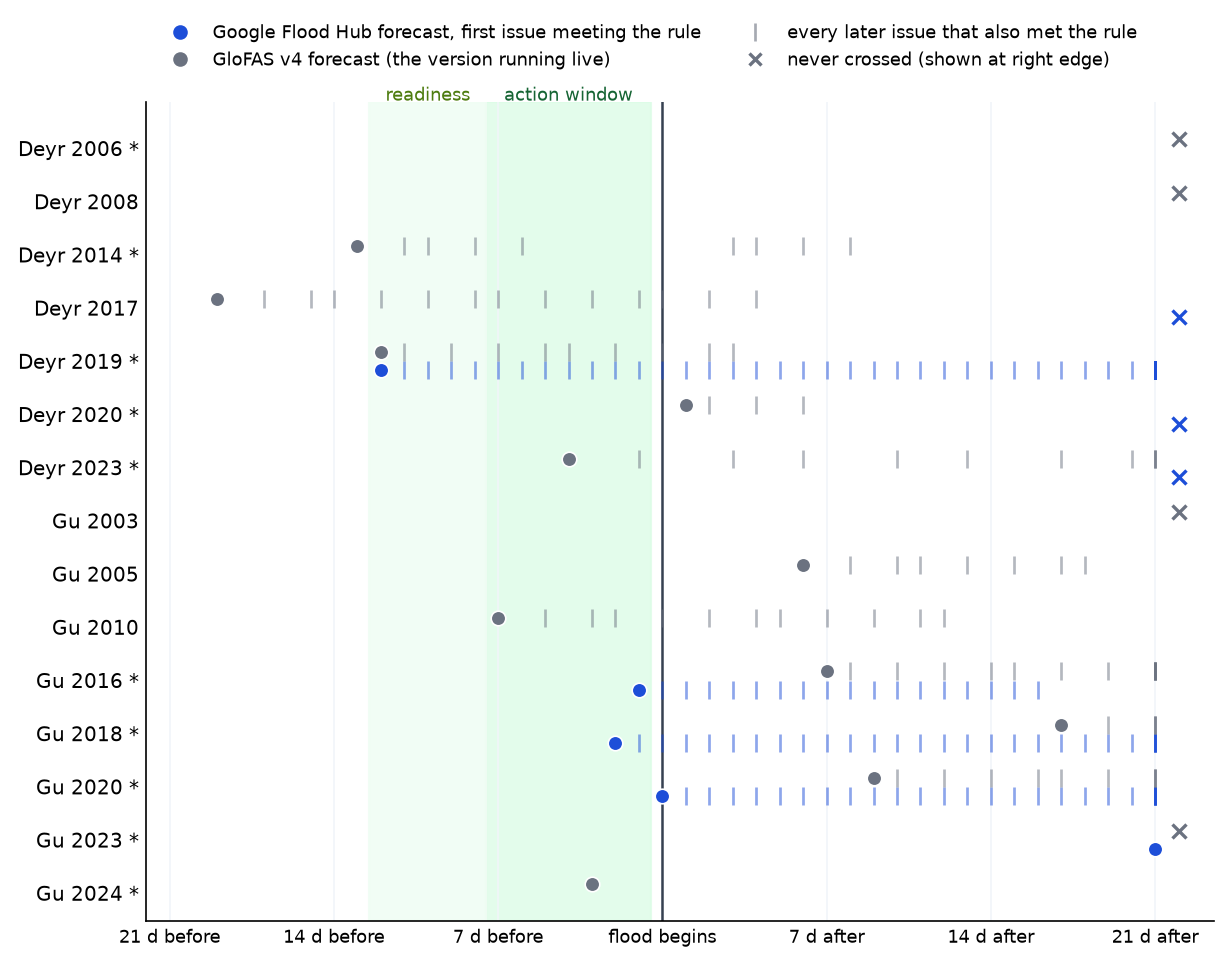
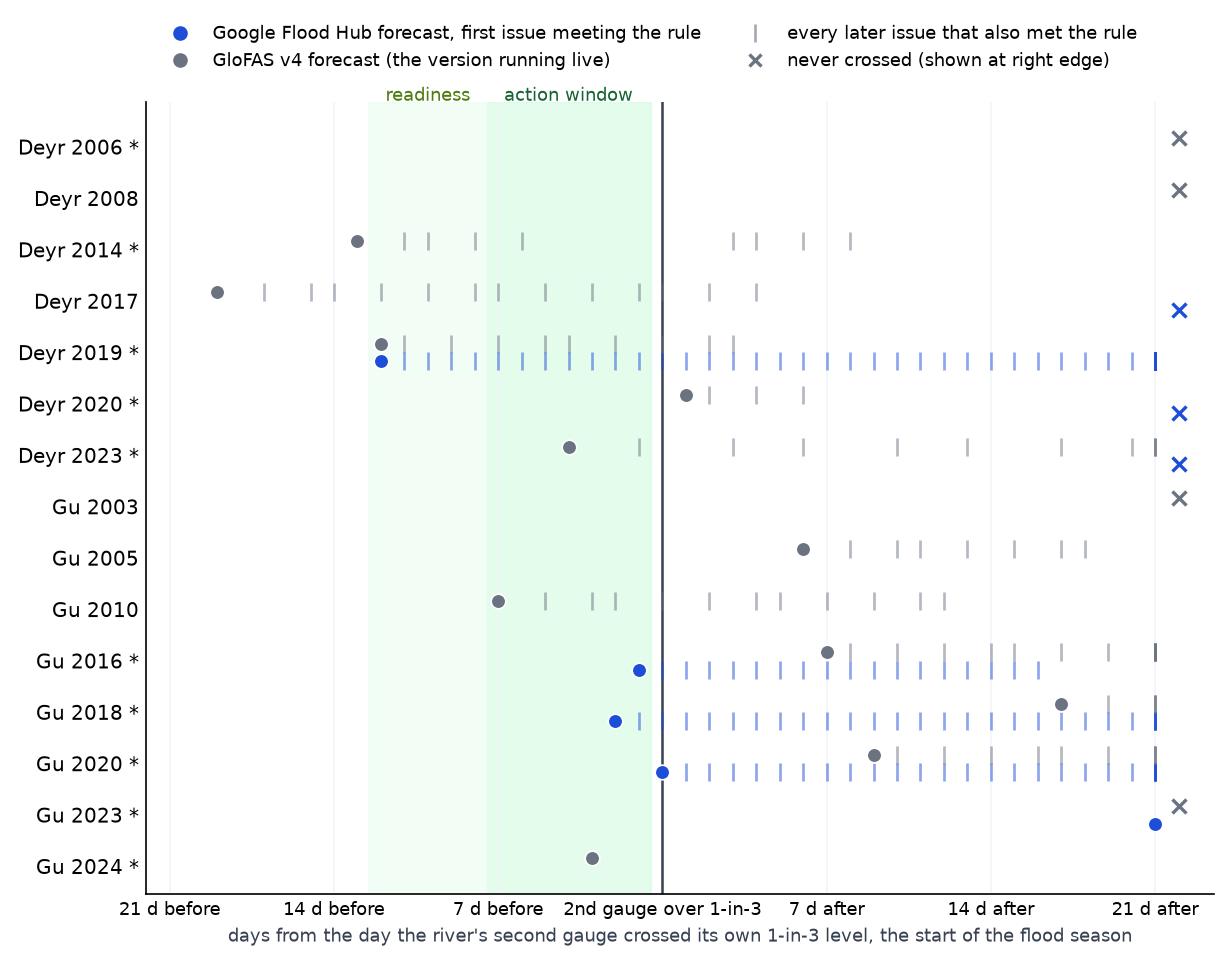
Summary page: the flood-onset day is named for what it is, the second gauge crossing 1-in-3

diff --git a/pages/trigger-single-model/summary.html b/pages/trigger-single-model/summary.html
@@ -28,4 +28,4 @@ details{margin:14px 0} summary{cursor:pointer;font-weight:600;padding:4px 0;colo
 <header><div class="wrap"><small>Somalia Riverine Flood Trigger / summary</small>
 <h1>How we got to the trigger</h1>
 <p>This page sets out how the trigger was designed and the evidence behind each choice. Figures cover 1999 to 2023 unless stated. The full analysis is on the <a href="index.html" style="color:#fff">trigger analysis page</a>.</p></div></header>
-<div class="wrap"><h2>The trigger</h2><p>The trigger covers two rivers and two rainy seasons, which gives four windows. Each window runs on one forecast source and one rule. If any one window activates, the full allocation is released.</p><div class='tw'><table><thead><tr><th>Window</th><th>Season</th><th>Source</th><th>Rule</th><th>Gauges</th></tr></thead><tbody><tr><td>Deyr Juba</td><td>October to December</td><td>GloFAS</td><td>3 of 4 gauges forecast over their own 1-in-4 level on the same day</td><td>Dollow, Luuq, Bardheere, Bualle</td></tr><tr><td>Deyr Shabelle</td><td>October to December</td><td>GloFAS</td><td>2 of 3 gauges forecast over their own 1-in-4 level on the same day</td><td>Belet Weyne, Bulo Burti, Jowhar</td></tr><tr><td>Gu Juba</td><td>March to May</td><td>Google Flood Hub</td><td>3 of 4 gauges forecast over their own 1-in-5 level on the same day</td><td>Dollow, Luuq, Bardheere, Bualle</td></tr><tr><td>Gu Shabelle</td><td>March to May</td><td>Google Flood Hub</td><td>2 of 3 gauges forecast over their own 1-in-6 level on the same day</td><td>Belet Weyne, Bulo Burti, Jowhar</td></tr></tbody></table></div><p class="note">Readiness activates 8 to 12 days ahead, either on the GloFAS ensemble forecast or on a SWALIM moderate flood risk alert for either river, and releases the mobilisation share. Action activates 1 to 7 days ahead and releases the rest. Thresholds are fitted on each source's own record.</p><p><b>Why action stops at 7 days.</b> Google Flood Hub, the Gu source, forecasts 7 days ahead and no further. GloFAS forecasts run longer, but the ensemble's high flows fall away with lead time. By day 7 they are about 12 per cent below the day-1 forecast, and by day 12 about 26 per cent below. Over the years both GloFAS archives cover, the same rule activated 4 times at 1 to 7 days and once at 8 to 12 days. Days 8 to 12 are therefore used for readiness rather than action.</p><h2>What counts as a flood</h2><p>The trigger is scored against the SWALIM gauge record. A river has a flood season when two of its gauges reach their own 1-in-3 level, and a severe season when two reach their 1-in-5 level. Each gauge's levels are fitted on its own record from 2000 to 2023.</p><div class='tw'><table><thead><tr><th>Window</th><th class="n">Flood seasons</th><th class="n">Severe</th><th>Severe years</th></tr></thead><tbody><tr><td>Deyr Juba</td><td class="n">5</td><td class="n">3</td><td>2006, 2014, 2023</td></tr><tr><td>Deyr Shabelle</td><td class="n">6</td><td class="n">5</td><td>2006, 2014, 2019, 2020, 2023</td></tr><tr><td>Gu Juba</td><td class="n">6</td><td class="n">3</td><td>2018, 2020, 2023</td></tr><tr><td>Gu Shabelle</td><td class="n">7</td><td class="n">3</td><td>2016, 2020, 2023</td></tr></tbody></table></div><p class="note">Across both rivers there are 12 flood years, of which 7 are severe. Gauges are capped at bank full, so the largest floods record the same reading. A season in which only one gauge crosses does not count, as in Gu 2021 at Belet Weyne.</p><h2>Which source, and why</h2><p>Three global models were considered. GEOGloWS runs 4 to 10 times too high on the Shabelle and has no forecast archive, and was not taken further. Google Flood Hub and GloFAS were compared with the SWALIM gauges on their own records of the past, Google's retrospective run and GloFAS's version 5 reanalysis, using only the seasons in which the gauge reached its own 1-in-3 level between 2000 and 2023 (4 to 10 seasons per gauge). Values are the median across the river's gauges.</p><ul><li><b>Tracking</b> is the rank correlation between the model's daily flow and the gauge's daily level over every day of those seasons, allowing the model to run a few days ahead of or behind the gauge. A value of 1 means the model rises and falls exactly with the gauge, and 0 means no relation.</li><li><b>Ranking</b> is the rank correlation between how high the model went in each of those seasons and how high the gauge went. It tests whether the model orders the floods by size as the gauge did. A value of 1 means the same order, 0 means no relation, and a value below 0 means the wrong order.</li></ul><div class='tw'><table><thead><tr><th></th><th colspan='2' class='n' style='border-bottom:1px solid var(--rule)'>Tracking</th><th colspan='2' class='n' style='border-bottom:1px solid var(--rule)'>Ranking</th><th></th></tr><tr><th>Window</th><th class="n">Google Flood Hub</th><th class="n">GloFAS</th><th class="n">Google Flood Hub</th><th class="n">GloFAS</th><th>Chosen</th></tr></thead><tbody><tr><td>Deyr Juba</td><td class="n">0.66</td><td class="n">0.85</td><td class="n">0.36</td><td class="n">0.32</td><td>GloFAS</td></tr><tr><td>Deyr Shabelle</td><td class="n">0.66</td><td class="n">0.85</td><td class="n">0.67</td><td class="n">0.77</td><td>GloFAS</td></tr><tr><td><b>Deyr, either river</b></td><td class="n"><b>0.66</b></td><td class="n"><b>0.85</b></td><td class="n"><b>0.62</b></td><td class="n"><b>0.62</b></td><td>GloFAS</td></tr><tr><td>Gu Juba</td><td class="n">0.87</td><td class="n">0.83</td><td class="n">0.50</td><td class="n">-0.48</td><td>Google Flood Hub</td></tr><tr><td>Gu Shabelle</td><td class="n">0.78</td><td class="n">0.79</td><td class="n">0.08</td><td class="n">0.04</td><td>Google Flood Hub</td></tr><tr><td><b>Gu, either river</b></td><td class="n"><b>0.86</b></td><td class="n"><b>0.79</b></td><td class="n"><b>0.20</b></td><td class="n"><b>-0.03</b></td><td>Google Flood Hub</td></tr></tbody></table></div><figure><img src="figs/s_agreement.png" alt="Agreement with the gauges in flood seasons, by window and model"><figcaption>Tracking on the left and ranking on the right, as in the table. The ringed dot marks the source the window runs on.</figcaption></figure><p>In Deyr, GloFAS tracks the gauges far more closely than Google (0.85 against 0.66). Google also over-activates in Deyr, with three Juba activations in years with no flood, and misses the Shabelle in 2020. In Gu, Google tracks more closely on the Juba and level with GloFAS on the Shabelle, orders the floods closer to the gauges' order, and its forecasts went out before the flood where GloFAS v4's mostly went out after it, as the next section shows. Gu Shabelle reads near zero on ranking for every model because the gauge is capped at bank full in the largest floods.</p><h2>How often it activates</h2><p>Every threshold sits at 1-in-3 or rarer. The vote counts were set so that the mechanism as a whole activates about once in three years while still catching every severe season.</p><div class='tw'><table><thead><tr><th></th><th class="n">Activations, 25 years</th><th>Return period</th><th>Years</th></tr></thead><tbody><tr><td>Deyr Juba</td><td class="n">2</td><td>1-in-13.0</td><td>2006, 2023</td></tr><tr><td>Deyr Shabelle</td><td class="n">6</td><td>1-in-4.3</td><td>2006, 2013, 2014, 2019, 2020, 2023</td></tr><tr><td>Gu Juba</td><td class="n">4</td><td>1-in-6.5</td><td>2013, 2016, 2018, 2020</td></tr><tr><td>Gu Shabelle</td><td class="n">4</td><td>1-in-6.5</td><td>2013, 2016, 2018, 2020</td></tr><tr><td>Juba, either window</td><td class="n">6</td><td>1-in-4.3</td><td>2006, 2013, 2016, 2018, 2020, 2023</td></tr><tr><td>Shabelle, either window</td><td class="n">8</td><td>1-in-3.2</td><td>2006, 2013, 2014, 2016, 2018, 2019, 2020, 2023</td></tr><tr><td>Whole mechanism</td><td class="n">8</td><td>1-in-3.2</td><td>2006, 2013, 2014, 2016, 2018, 2019, 2020, 2023</td></tr></tbody></table></div><figure><img src="figs/s_activations.png" alt="Flood seasons and activations by year and window"><figcaption>Squares mark gauge flood seasons, dark where severe. Dots mark the years in which the window activated on its source. There are 8 activations in 25 years. All 7 severe seasons are caught, and one activation, in 2013, has no gauge flood behind it, although SWALIM and WFP both record that year as a major flood. Return periods are Weibull, (years + 1) divided by activations.</figcaption></figure><h2>Checked on the forecasts</h2><p>The tests above use each model's record of the past, whereas the trigger runs on forecasts. The historical forecasts were therefore replayed to find the day the alert would have gone out, 1 to 7 days ahead, and that day was compared with the day the flood began at the gauges. Either river counts. Only Google Flood Hub (2016 to 2023) and GloFAS v4 (2003 to 2023, plus the live Gu 2024 forecasts) have archives. GloFAS's archive holds two issue days a week (104 a year) where Google's holds every day, so replayed GloFAS lead times are coarser by up to three days. The live GloFAS forecast is daily.</p><figure><img src="figs/s_leads.png" alt="Lead time of the first forecast issue meeting the rule, per flood season"><figcaption>One row per flood season, with severe seasons starred. The green band is the action window and the pale green band is readiness. The dot is the first forecast issue that met the rule, and the ticks are every later issue that met it. Points left of the line went out before the flood began, and points to the right went out after it.</figcaption></figure><p>In Deyr, GloFAS v4 activated before the flood in 4 of 7 seasons and was first in 3 of the 4 seasons both archives cover. In Gu, Google was first in all 4. On the Shabelle it gave 10 to 13 days of warning in three of four seasons, where GloFAS v4 gave 3 days once and nothing in the other three. The lead-time comparison and the calibration were done independently and point the same way.</p><details><summary>Flood by flood</summary><div class='tw'><table><thead><tr><th>Season</th><th>River(s) that flooded</th><th>Flood began</th><th>Google Flood Hub forecast</th><th>GloFAS v4 forecast</th><th>First</th></tr></thead><tbody><tr><td>Deyr 2006 *</td><td>Juba and Shabelle</td><td>30 Oct</td><td><span class="pill na">no archive</span></td><td><span class="pill never">never crossed</span></td><td></td></tr><tr><td>Deyr 2008</td><td>Juba and Shabelle</td><td>15 Nov</td><td><span class="pill na">no archive</span></td><td><span class="pill never">never crossed</span></td><td></td></tr><tr><td>Deyr 2014 *</td><td>Juba and Shabelle</td><td>20 Oct</td><td><span class="pill na">no archive</span></td><td><span class="pill before">13 d before</span><span class="who">Shabelle, 7 Oct</span></td><td></td></tr><tr><td>Deyr 2017</td><td>Juba</td><td>7 Nov</td><td><span class="pill never">never crossed</span></td><td><span class="pill before">19 d before</span><span class="who">Juba, 19 Oct</span></td><td>GloFAS v4</td></tr><tr><td>Deyr 2019 *</td><td>Shabelle</td><td>14 Oct</td><td><span class="pill before">12 d before</span><span class="who">Shabelle, 2 Oct</span></td><td><span class="pill before">12 d before</span><span class="who">Shabelle, 2 Oct</span></td><td>tie</td></tr><tr><td>Deyr 2020 *</td><td>Shabelle</td><td>1 Oct</td><td><span class="pill never">never crossed</span></td><td><span class="pill after">1 d after</span><span class="who">Shabelle, 2 Oct</span></td><td>GloFAS v4</td></tr><tr><td>Deyr 2023 *</td><td>Juba and Shabelle</td><td>25 Oct</td><td><span class="pill never">never crossed</span></td><td><span class="pill before">4 d before</span><span class="who">Juba, 21 Oct</span></td><td>GloFAS v4</td></tr><tr><td>Gu 2003</td><td>Shabelle</td><td>11 May</td><td><span class="pill na">no archive</span></td><td><span class="pill never">never crossed</span></td><td></td></tr><tr><td>Gu 2005</td><td>Juba and Shabelle</td><td>12 May</td><td><span class="pill na">no archive</span></td><td><span class="pill after">6 d after</span><span class="who">Shabelle, 18 May</span></td><td></td></tr><tr><td>Gu 2010</td><td>Juba and Shabelle</td><td>18 May</td><td><span class="pill na">no archive</span></td><td><span class="pill before">7 d before</span><span class="who">Shabelle, 11 May</span></td><td></td></tr><tr><td>Gu 2016 *</td><td>Juba and Shabelle</td><td>1 May</td><td><span class="pill before">1 d before</span><span class="who">Shabelle, 30 Apr</span></td><td><span class="pill after">7 d after</span><span class="who">Shabelle, 8 May</span></td><td>Google</td></tr><tr><td>Gu 2018 *</td><td>Juba and Shabelle</td><td>17 Apr</td><td><span class="pill before">2 d before</span><span class="who">Juba, 15 Apr</span></td><td><span class="pill after">17 d after</span><span class="who">Juba, 4 May</span></td><td>Google</td></tr><tr><td>Gu 2020 *</td><td>Juba and Shabelle</td><td>22 Apr</td><td><span class="pill same">same day</span><span class="who">Shabelle, 22 Apr</span></td><td><span class="pill after">9 d after</span><span class="who">Juba, 1 May</span></td><td>Google</td></tr><tr><td>Gu 2023 *</td><td>Juba and Shabelle</td><td>25 Mar</td><td><span class="pill after">32 d after</span><span class="who">Shabelle, 26 Apr</span></td><td><span class="pill never">never crossed</span></td><td>Google</td></tr><tr><td>Gu 2024 *</td><td>Juba and Shabelle</td><td>8 May</td><td><span class="pill na">no archive</span></td><td><span class="pill before">3 d before</span><span class="who">Juba, 5 May</span></td><td></td></tr></tbody></table></div></details><h2>SWALIM's alerts</h2><p>SWALIM's bulletins were first in 6 of the 8 seasons in which both SWALIM and the window's source flagged, and SWALIM alone flagged in 5 further seasons. The bulletins are forward-looking and often early, and a SWALIM moderate flood risk alert for either river therefore activates readiness. They cannot carry the action phase, because CERF needs an activation basis that can be backtested and the bulletins are expert judgement rather than a fixed rule.</p><details><summary>SWALIM against the window's source, season by season</summary><div class='tw'><table><thead><tr><th>Season</th><th>River</th><th>SWALIM first bulletin</th><th>Who was first</th></tr></thead><tbody><tr><td>Deyr 2006</td><td>Juba</td><td>2006-10-31</td><td>GloFAS v5 2 d before SWALIM</td></tr><tr><td>Deyr 2006</td><td>Shabelle</td><td>2006-10-31</td><td>SWALIM 2 d before GloFAS v5</td></tr><tr><td>Deyr 2014</td><td>Juba</td><td>2014-10-15</td><td>SWALIM only; GloFAS v5 never crossed</td></tr><tr><td>Deyr 2014</td><td>Shabelle</td><td>2014-10-15</td><td>SWALIM 1 d before GloFAS v5</td></tr><tr><td>Deyr 2019</td><td>Juba</td><td>2019-10-22</td><td>SWALIM only; GloFAS v5 never crossed</td></tr><tr><td>Deyr 2019</td><td>Shabelle</td><td>2019-10-22</td><td>GloFAS v5 11 d before SWALIM</td></tr><tr><td>Deyr 2020</td><td>Shabelle</td><td>2020-09-08</td><td>no bulletin for the October rise</td></tr><tr><td>Deyr 2023</td><td>Juba</td><td>2023-10-20</td><td>SWALIM 9 d before GloFAS v5</td></tr><tr><td>Deyr 2023</td><td>Shabelle</td><td>2023-10-21</td><td>SWALIM 19 d before GloFAS v5</td></tr><tr><td>Gu 2016</td><td>Shabelle</td><td>no bulletin</td><td>no SWALIM bulletin; Google 12 May</td></tr><tr><td>Gu 2020</td><td>Juba</td><td>2020-04-27</td><td>SWALIM 2 d before Google</td></tr><tr><td>Gu 2020</td><td>Shabelle</td><td>2020-04-27</td><td>SWALIM 3 d before Google</td></tr><tr><td>Gu 2021</td><td>Juba</td><td>2021-05-10</td><td>SWALIM only; Google never crossed</td></tr><tr><td>Gu 2021</td><td>Shabelle</td><td>2021-05-10</td><td>SWALIM only; Google never crossed</td></tr><tr><td>Gu 2023</td><td>Shabelle</td><td>2023-05-08</td><td>SWALIM only; Google never crossed</td></tr><tr><td>Gu 2024</td><td>Juba</td><td>2024-05-09</td><td>Google record ends 2023</td></tr><tr><td>Gu 2024</td><td>Shabelle</td><td>2024-04-19</td><td>Google record ends 2023</td></tr></tbody></table></div></details><h2>What runs live, and what is open</h2><ul><li><b>GloFAS version 4 runs both phases today.</b> Deyr is calibrated on version 5, which has no published forecast yet, and Gu on Google Flood Hub, to which there is no API access yet. Version 4 stands in, with levels refitted on its own record.</li><li><b>Two gauges have stopped reporting.</b> Bardheere has not reported since 30 November 2023 and Bualle since 14 March 2024.</li><li><b>Impact years are not yet defined.</b> The benchmark is gauge levels rather than people affected, and 2013 and 2021 show why an impact cross-check is the next step. Each window holds three to five severe seasons, so every difference on this page rests on one or two events.</li></ul><footer>Generated 2026-09-14 from the trigger analysis outputs and checked against the analysis page when built.</footer></div></body></html>
+<div class="wrap"><h2>The trigger</h2><p>The trigger covers two rivers and two rainy seasons, which gives four windows. Each window runs on one forecast source and one rule. If any one window activates, the full allocation is released.</p><div class='tw'><table><thead><tr><th>Window</th><th>Season</th><th>Source</th><th>Rule</th><th>Gauges</th></tr></thead><tbody><tr><td>Deyr Juba</td><td>October to December</td><td>GloFAS</td><td>3 of 4 gauges forecast over their own 1-in-4 level on the same day</td><td>Dollow, Luuq, Bardheere, Bualle</td></tr><tr><td>Deyr Shabelle</td><td>October to December</td><td>GloFAS</td><td>2 of 3 gauges forecast over their own 1-in-4 level on the same day</td><td>Belet Weyne, Bulo Burti, Jowhar</td></tr><tr><td>Gu Juba</td><td>March to May</td><td>Google Flood Hub</td><td>3 of 4 gauges forecast over their own 1-in-5 level on the same day</td><td>Dollow, Luuq, Bardheere, Bualle</td></tr><tr><td>Gu Shabelle</td><td>March to May</td><td>Google Flood Hub</td><td>2 of 3 gauges forecast over their own 1-in-6 level on the same day</td><td>Belet Weyne, Bulo Burti, Jowhar</td></tr></tbody></table></div><p class="note">Readiness activates 8 to 12 days ahead, either on the GloFAS ensemble forecast or on a SWALIM moderate flood risk alert for either river, and releases the mobilisation share. Action activates 1 to 7 days ahead and releases the rest. Thresholds are fitted on each source's own record.</p><p><b>Why action stops at 7 days.</b> Google Flood Hub, the Gu source, forecasts 7 days ahead and no further. GloFAS forecasts run longer, but the ensemble's high flows fall away with lead time. By day 7 they are about 12 per cent below the day-1 forecast, and by day 12 about 26 per cent below. Over the years both GloFAS archives cover, the same rule activated 4 times at 1 to 7 days and once at 8 to 12 days. Days 8 to 12 are therefore used for readiness rather than action.</p><h2>What counts as a flood</h2><p>The trigger is scored against the SWALIM gauge record. A river has a flood season when two of its gauges reach their own 1-in-3 level, and a severe season when two reach their 1-in-5 level. Each gauge's levels are fitted on its own record from 2000 to 2023.</p><div class='tw'><table><thead><tr><th>Window</th><th class="n">Flood seasons</th><th class="n">Severe</th><th>Severe years</th></tr></thead><tbody><tr><td>Deyr Juba</td><td class="n">5</td><td class="n">3</td><td>2006, 2014, 2023</td></tr><tr><td>Deyr Shabelle</td><td class="n">6</td><td class="n">5</td><td>2006, 2014, 2019, 2020, 2023</td></tr><tr><td>Gu Juba</td><td class="n">6</td><td class="n">3</td><td>2018, 2020, 2023</td></tr><tr><td>Gu Shabelle</td><td class="n">7</td><td class="n">3</td><td>2016, 2020, 2023</td></tr></tbody></table></div><p class="note">Across both rivers there are 12 flood years, of which 7 are severe. Gauges are capped at bank full, so the largest floods record the same reading. A season in which only one gauge crosses does not count, as in Gu 2021 at Belet Weyne.</p><h2>Which source, and why</h2><p>Three global models were considered. GEOGloWS runs 4 to 10 times too high on the Shabelle and has no forecast archive, and was not taken further. Google Flood Hub and GloFAS were compared with the SWALIM gauges on their own records of the past, Google's retrospective run and GloFAS's version 5 reanalysis, using only the seasons in which the gauge reached its own 1-in-3 level between 2000 and 2023 (4 to 10 seasons per gauge). Values are the median across the river's gauges.</p><ul><li><b>Tracking</b> is the rank correlation between the model's daily flow and the gauge's daily level over every day of those seasons, allowing the model to run a few days ahead of or behind the gauge. A value of 1 means the model rises and falls exactly with the gauge, and 0 means no relation.</li><li><b>Ranking</b> is the rank correlation between how high the model went in each of those seasons and how high the gauge went. It tests whether the model orders the floods by size as the gauge did. A value of 1 means the same order, 0 means no relation, and a value below 0 means the wrong order.</li></ul><div class='tw'><table><thead><tr><th></th><th colspan='2' class='n' style='border-bottom:1px solid var(--rule)'>Tracking</th><th colspan='2' class='n' style='border-bottom:1px solid var(--rule)'>Ranking</th><th></th></tr><tr><th>Window</th><th class="n">Google Flood Hub</th><th class="n">GloFAS</th><th class="n">Google Flood Hub</th><th class="n">GloFAS</th><th>Chosen</th></tr></thead><tbody><tr><td>Deyr Juba</td><td class="n">0.66</td><td class="n">0.85</td><td class="n">0.36</td><td class="n">0.32</td><td>GloFAS</td></tr><tr><td>Deyr Shabelle</td><td class="n">0.66</td><td class="n">0.85</td><td class="n">0.67</td><td class="n">0.77</td><td>GloFAS</td></tr><tr><td><b>Deyr, either river</b></td><td class="n"><b>0.66</b></td><td class="n"><b>0.85</b></td><td class="n"><b>0.62</b></td><td class="n"><b>0.62</b></td><td>GloFAS</td></tr><tr><td>Gu Juba</td><td class="n">0.87</td><td class="n">0.83</td><td class="n">0.50</td><td class="n">-0.48</td><td>Google Flood Hub</td></tr><tr><td>Gu Shabelle</td><td class="n">0.78</td><td class="n">0.79</td><td class="n">0.08</td><td class="n">0.04</td><td>Google Flood Hub</td></tr><tr><td><b>Gu, either river</b></td><td class="n"><b>0.86</b></td><td class="n"><b>0.79</b></td><td class="n"><b>0.20</b></td><td class="n"><b>-0.03</b></td><td>Google Flood Hub</td></tr></tbody></table></div><figure><img src="figs/s_agreement.png" alt="Agreement with the gauges in flood seasons, by window and model"><figcaption>Tracking on the left and ranking on the right, as in the table. The ringed dot marks the source the window runs on.</figcaption></figure><p>In Deyr, GloFAS tracks the gauges far more closely than Google (0.85 against 0.66). Google also over-activates in Deyr, with three Juba activations in years with no flood, and misses the Shabelle in 2020. In Gu, Google tracks more closely on the Juba and level with GloFAS on the Shabelle, orders the floods closer to the gauges' order, and its forecasts went out before the flood where GloFAS v4's mostly went out after it, as the next section shows. Gu Shabelle reads near zero on ranking for every model because the gauge is capped at bank full in the largest floods.</p><h2>How often it activates</h2><p>Every threshold sits at 1-in-3 or rarer. The vote counts were set so that the mechanism as a whole activates about once in three years while still catching every severe season.</p><div class='tw'><table><thead><tr><th></th><th class="n">Activations, 25 years</th><th>Return period</th><th>Years</th></tr></thead><tbody><tr><td>Deyr Juba</td><td class="n">2</td><td>1-in-13.0</td><td>2006, 2023</td></tr><tr><td>Deyr Shabelle</td><td class="n">6</td><td>1-in-4.3</td><td>2006, 2013, 2014, 2019, 2020, 2023</td></tr><tr><td>Gu Juba</td><td class="n">4</td><td>1-in-6.5</td><td>2013, 2016, 2018, 2020</td></tr><tr><td>Gu Shabelle</td><td class="n">4</td><td>1-in-6.5</td><td>2013, 2016, 2018, 2020</td></tr><tr><td>Juba, either window</td><td class="n">6</td><td>1-in-4.3</td><td>2006, 2013, 2016, 2018, 2020, 2023</td></tr><tr><td>Shabelle, either window</td><td class="n">8</td><td>1-in-3.2</td><td>2006, 2013, 2014, 2016, 2018, 2019, 2020, 2023</td></tr><tr><td>Whole mechanism</td><td class="n">8</td><td>1-in-3.2</td><td>2006, 2013, 2014, 2016, 2018, 2019, 2020, 2023</td></tr></tbody></table></div><figure><img src="figs/s_activations.png" alt="Flood seasons and activations by year and window"><figcaption>Squares mark gauge flood seasons, dark where severe. Dots mark the years in which the window activated on its source. There are 8 activations in 25 years. All 7 severe seasons are caught, and one activation, in 2013, has no gauge flood behind it, although SWALIM and WFP both record that year as a major flood. Return periods are Weibull, (years + 1) divided by activations.</figcaption></figure><h2>Checked on the forecasts</h2><p>The tests above use each model's record of the past, whereas the trigger runs on forecasts. The historical forecasts were therefore replayed to find the day the alert would have gone out, 1 to 7 days ahead, and that day was compared with the day the flood season began at the gauges, which is the day the river's second gauge crossed its own 1-in-3 level (the first gauge may have crossed days earlier). Either river counts. Only Google Flood Hub (2016 to 2023) and GloFAS v4 (2003 to 2023, plus the live Gu 2024 forecasts) have archives. GloFAS's archive holds two issue days a week (104 a year) where Google's holds every day, so replayed GloFAS lead times are coarser by up to three days. The live GloFAS forecast is daily.</p><figure><img src="figs/s_leads.png" alt="Lead time of the first forecast issue meeting the rule, per flood season"><figcaption>One row per flood season, with severe seasons starred. The green band is the action window and the pale green band is readiness. The dot is the first forecast issue that met the rule, and the ticks are every later issue that met it. Points left of the line went out before the second gauge crossed, and points to the right went out after it.</figcaption></figure><p>In Deyr, GloFAS v4 activated before the second gauge crossed in 4 of 7 seasons and was first in 3 of the 4 seasons both archives cover. In Gu, Google was first in all 4. On the Shabelle it gave 10 to 13 days of warning in three of four seasons, where GloFAS v4 gave 3 days once and nothing in the other three. The lead-time comparison and the calibration were done independently and point the same way.</p><details><summary>Flood by flood</summary><div class='tw'><table><thead><tr><th>Season</th><th>River(s) that flooded</th><th>Second gauge over 1-in-3</th><th>Google Flood Hub forecast</th><th>GloFAS v4 forecast</th><th>First</th></tr></thead><tbody><tr><td>Deyr 2006 *</td><td>Juba and Shabelle</td><td>30 Oct</td><td><span class="pill na">no archive</span></td><td><span class="pill never">never crossed</span></td><td></td></tr><tr><td>Deyr 2008</td><td>Juba and Shabelle</td><td>15 Nov</td><td><span class="pill na">no archive</span></td><td><span class="pill never">never crossed</span></td><td></td></tr><tr><td>Deyr 2014 *</td><td>Juba and Shabelle</td><td>20 Oct</td><td><span class="pill na">no archive</span></td><td><span class="pill before">13 d before</span><span class="who">Shabelle, 7 Oct</span></td><td></td></tr><tr><td>Deyr 2017</td><td>Juba</td><td>7 Nov</td><td><span class="pill never">never crossed</span></td><td><span class="pill before">19 d before</span><span class="who">Juba, 19 Oct</span></td><td>GloFAS v4</td></tr><tr><td>Deyr 2019 *</td><td>Shabelle</td><td>14 Oct</td><td><span class="pill before">12 d before</span><span class="who">Shabelle, 2 Oct</span></td><td><span class="pill before">12 d before</span><span class="who">Shabelle, 2 Oct</span></td><td>tie</td></tr><tr><td>Deyr 2020 *</td><td>Shabelle</td><td>1 Oct</td><td><span class="pill never">never crossed</span></td><td><span class="pill after">1 d after</span><span class="who">Shabelle, 2 Oct</span></td><td>GloFAS v4</td></tr><tr><td>Deyr 2023 *</td><td>Juba and Shabelle</td><td>25 Oct</td><td><span class="pill never">never crossed</span></td><td><span class="pill before">4 d before</span><span class="who">Juba, 21 Oct</span></td><td>GloFAS v4</td></tr><tr><td>Gu 2003</td><td>Shabelle</td><td>11 May</td><td><span class="pill na">no archive</span></td><td><span class="pill never">never crossed</span></td><td></td></tr><tr><td>Gu 2005</td><td>Juba and Shabelle</td><td>12 May</td><td><span class="pill na">no archive</span></td><td><span class="pill after">6 d after</span><span class="who">Shabelle, 18 May</span></td><td></td></tr><tr><td>Gu 2010</td><td>Juba and Shabelle</td><td>18 May</td><td><span class="pill na">no archive</span></td><td><span class="pill before">7 d before</span><span class="who">Shabelle, 11 May</span></td><td></td></tr><tr><td>Gu 2016 *</td><td>Juba and Shabelle</td><td>1 May</td><td><span class="pill before">1 d before</span><span class="who">Shabelle, 30 Apr</span></td><td><span class="pill after">7 d after</span><span class="who">Shabelle, 8 May</span></td><td>Google</td></tr><tr><td>Gu 2018 *</td><td>Juba and Shabelle</td><td>17 Apr</td><td><span class="pill before">2 d before</span><span class="who">Juba, 15 Apr</span></td><td><span class="pill after">17 d after</span><span class="who">Juba, 4 May</span></td><td>Google</td></tr><tr><td>Gu 2020 *</td><td>Juba and Shabelle</td><td>22 Apr</td><td><span class="pill same">same day</span><span class="who">Shabelle, 22 Apr</span></td><td><span class="pill after">9 d after</span><span class="who">Juba, 1 May</span></td><td>Google</td></tr><tr><td>Gu 2023 *</td><td>Juba and Shabelle</td><td>25 Mar</td><td><span class="pill after">32 d after</span><span class="who">Shabelle, 26 Apr</span></td><td><span class="pill never">never crossed</span></td><td>Google</td></tr><tr><td>Gu 2024 *</td><td>Juba and Shabelle</td><td>8 May</td><td><span class="pill na">no archive</span></td><td><span class="pill before">3 d before</span><span class="who">Juba, 5 May</span></td><td></td></tr></tbody></table></div></details><h2>SWALIM's alerts</h2><p>SWALIM's bulletins were first in 6 of the 8 seasons in which both SWALIM and the window's source flagged, and SWALIM alone flagged in 5 further seasons. The bulletins are forward-looking and often early, and a SWALIM moderate flood risk alert for either river therefore activates readiness. They cannot carry the action phase, because CERF needs an activation basis that can be backtested and the bulletins are expert judgement rather than a fixed rule.</p><details><summary>SWALIM against the window's source, season by season</summary><div class='tw'><table><thead><tr><th>Season</th><th>River</th><th>SWALIM first bulletin</th><th>Who was first</th></tr></thead><tbody><tr><td>Deyr 2006</td><td>Juba</td><td>2006-10-31</td><td>GloFAS v5 2 d before SWALIM</td></tr><tr><td>Deyr 2006</td><td>Shabelle</td><td>2006-10-31</td><td>SWALIM 2 d before GloFAS v5</td></tr><tr><td>Deyr 2014</td><td>Juba</td><td>2014-10-15</td><td>SWALIM only; GloFAS v5 never crossed</td></tr><tr><td>Deyr 2014</td><td>Shabelle</td><td>2014-10-15</td><td>SWALIM 1 d before GloFAS v5</td></tr><tr><td>Deyr 2019</td><td>Juba</td><td>2019-10-22</td><td>SWALIM only; GloFAS v5 never crossed</td></tr><tr><td>Deyr 2019</td><td>Shabelle</td><td>2019-10-22</td><td>GloFAS v5 11 d before SWALIM</td></tr><tr><td>Deyr 2020</td><td>Shabelle</td><td>2020-09-08</td><td>no bulletin for the October rise</td></tr><tr><td>Deyr 2023</td><td>Juba</td><td>2023-10-20</td><td>SWALIM 9 d before GloFAS v5</td></tr><tr><td>Deyr 2023</td><td>Shabelle</td><td>2023-10-21</td><td>SWALIM 19 d before GloFAS v5</td></tr><tr><td>Gu 2016</td><td>Shabelle</td><td>no bulletin</td><td>no SWALIM bulletin; Google 12 May</td></tr><tr><td>Gu 2020</td><td>Juba</td><td>2020-04-27</td><td>SWALIM 2 d before Google</td></tr><tr><td>Gu 2020</td><td>Shabelle</td><td>2020-04-27</td><td>SWALIM 3 d before Google</td></tr><tr><td>Gu 2021</td><td>Juba</td><td>2021-05-10</td><td>SWALIM only; Google never crossed</td></tr><tr><td>Gu 2021</td><td>Shabelle</td><td>2021-05-10</td><td>SWALIM only; Google never crossed</td></tr><tr><td>Gu 2023</td><td>Shabelle</td><td>2023-05-08</td><td>SWALIM only; Google never crossed</td></tr><tr><td>Gu 2024</td><td>Juba</td><td>2024-05-09</td><td>Google record ends 2023</td></tr><tr><td>Gu 2024</td><td>Shabelle</td><td>2024-04-19</td><td>Google record ends 2023</td></tr></tbody></table></div></details><h2>What runs live, and what is open</h2><ul><li><b>GloFAS version 4 runs both phases today.</b> Deyr is calibrated on version 5, which has no published forecast yet, and Gu on Google Flood Hub, to which there is no API access yet. Version 4 stands in, with levels refitted on its own record.</li><li><b>Two gauges have stopped reporting.</b> Bardheere has not reported since 30 November 2023 and Bualle since 14 March 2024.</li><li><b>Impact years are not yet defined.</b> The benchmark is gauge levels rather than people affected, and 2013 and 2021 show why an impact cross-check is the next step. Each window holds three to five severe seasons, so every difference on this page rests on one or two events.</li></ul><footer>Generated 2026-09-14 from the trigger analysis outputs and checked against the analysis page when built.</footer></div></body></html>

diff --git a/scripts/page_additions/summary_page.py b/scripts/page_additions/summary_page.py
@@ -283,7 +283,8 @@ def fig_leads():
                 ax.plot([x], [i + dy], "o", color=COL[m], ms=7, mec="white", mew=.8, zorder=3)
     ax.set_yticks(range(len(rows))); ax.set_yticklabels(labels); ax.invert_yaxis()
     ax.set_xlim(-22, 23.5); ax.set_xticks([-21, -14, -7, 0, 7, 14, 21])
-    ax.set_xticklabels(["21 d before", "14 d before", "7 d before", "flood begins", "7 d after", "14 d after", "21 d after"], fontsize=8.5)
+    ax.set_xticklabels(["21 d before", "14 d before", "7 d before", "2nd gauge over 1-in-3", "7 d after", "14 d after", "21 d after"], fontsize=8.5)
+    ax.set_xlabel("days from the day the river's second gauge crossed its own 1-in-3 level, the start of the flood season", fontsize=8.8, color="#374151")
     ax.text(-4, -0.9, "action window", color="#166534", fontsize=8.5, ha="center"); ax.text(-10, -0.9, "readiness", color="#4d7c0f", fontsize=8.5, ha="center")
     ax.grid(axis="x", color="#f1f5f9"); ax.tick_params(length=0)
     ax.legend(handles=[Line2D([], [], marker="o", ls="none", color=COL["google_grrr"], label="Google Flood Hub forecast, first issue meeting the rule"),
@@ -409,11 +410,11 @@ add(table(["", "#Activations, 25 years", "Return period", "Years"],
 add(f"<figure><img src=\"figs/s_activations.png\" alt=\"Flood seasons and activations by year and window\"><figcaption>Squares mark gauge flood seasons, dark where severe. Dots mark the years in which the window activated on its source. There are {n_act} activations in 25 years. All {len(severe_all)} severe seasons are caught, and one activation, in {yl(outside)}, has no gauge flood behind it, although SWALIM and WFP both record that year as a major flood. Return periods are Weibull, (years + 1) divided by activations.</figcaption></figure>")
 
 d, g = fb_tot["deyr"], fb_tot["gu"]
-add(f"<h2>Checked on the forecasts</h2><p>The tests above use each model's record of the past, whereas the trigger runs on forecasts. The historical forecasts were therefore replayed to find the day the alert would have gone out, 1 to 7 days ahead, and that day was compared with the day the flood began at the gauges. Either river counts. Only Google Flood Hub (2016 to 2023) and GloFAS v4 (2003 to 2023, plus the live Gu 2024 forecasts) have archives. GloFAS's archive holds two issue days a week ({GLOFAS_ISSUES} a year) where Google's holds every day, so replayed GloFAS lead times are coarser by up to three days. The live GloFAS forecast is daily.</p>")
-add("<figure><img src=\"figs/s_leads.png\" alt=\"Lead time of the first forecast issue meeting the rule, per flood season\"><figcaption>One row per flood season, with severe seasons starred. The green band is the action window and the pale green band is readiness. The dot is the first forecast issue that met the rule, and the ticks are every later issue that met it. Points left of the line went out before the flood began, and points to the right went out after it.</figcaption></figure>")
-add(f"<p>In Deyr, GloFAS v4 activated before the flood in {d['per_model']['glofas_v4'].get('before', 0)} of {d['n']} seasons and was first in {d['head_to_head']['glofas_v4']} of the {d['n_both']} seasons both archives cover. In Gu, Google was first in all {g['n_both']}. On the Shabelle it gave 10 to 13 days of warning in three of four seasons, where GloFAS v4 gave 3 days once and nothing in the other three. The lead-time comparison and the calibration were done independently and point the same way.</p>")
+add(f"<h2>Checked on the forecasts</h2><p>The tests above use each model's record of the past, whereas the trigger runs on forecasts. The historical forecasts were therefore replayed to find the day the alert would have gone out, 1 to 7 days ahead, and that day was compared with the day the flood season began at the gauges, which is the day the river's second gauge crossed its own 1-in-3 level (the first gauge may have crossed days earlier). Either river counts. Only Google Flood Hub (2016 to 2023) and GloFAS v4 (2003 to 2023, plus the live Gu 2024 forecasts) have archives. GloFAS's archive holds two issue days a week ({GLOFAS_ISSUES} a year) where Google's holds every day, so replayed GloFAS lead times are coarser by up to three days. The live GloFAS forecast is daily.</p>")
+add("<figure><img src=\"figs/s_leads.png\" alt=\"Lead time of the first forecast issue meeting the rule, per flood season\"><figcaption>One row per flood season, with severe seasons starred. The green band is the action window and the pale green band is readiness. The dot is the first forecast issue that met the rule, and the ticks are every later issue that met it. Points left of the line went out before the second gauge crossed, and points to the right went out after it.</figcaption></figure>")
+add(f"<p>In Deyr, GloFAS v4 activated before the second gauge crossed in {d['per_model']['glofas_v4'].get('before', 0)} of {d['n']} seasons and was first in {d['head_to_head']['glofas_v4']} of the {d['n_both']} seasons both archives cover. In Gu, Google was first in all {g['n_both']}. On the Shabelle it gave 10 to 13 days of warning in three of four seasons, where GloFAS v4 gave 3 days once and nothing in the other three. The lead-time comparison and the calibration were done independently and point the same way.</p>")
 rows6 = [[c(f"{SEASON[s][0]} {r['year']}{' *' if r['severe'] else ''}"), c(" and ".join(r["rivers"])), c(r["first_onset"]), c(pill(r["google_grrr"])), c(pill(r["glofas_v4"])), c(escape(r["first"]))] for s in ("deyr", "gu") for r in fb_rows[s]]
-add("<details><summary>Flood by flood</summary>" + table(["Season", "River(s) that flooded", "Flood began", "Google Flood Hub forecast", "GloFAS v4 forecast", "First"], rows6) + "</details>")
+add("<details><summary>Flood by flood</summary>" + table(["Season", "River(s) that flooded", "Second gauge over 1-in-3", "Google Flood Hub forecast", "GloFAS v4 forecast", "First"], rows6) + "</details>")
 
 add(f"<h2>SWALIM's alerts</h2><p>SWALIM's bulletins were first in {sw_first} of the {len(both_flag)} seasons in which both SWALIM and the window's source flagged, and SWALIM alone flagged in {len(sw_only)} further seasons. The bulletins are forward-looking and often early, and a SWALIM moderate flood risk alert for either river therefore activates readiness. They cannot carry the action phase, because CERF needs an activation basis that can be backtested and the bulletins are expert judgement rather than a fixed rule.</p>")
 rows7 = [[c(t_["season"]), c(t_["river"]), c(t_["swalim_first"] or "no bulletin"), c(t_["vs_trigger"])] for t_ in swalim_tl]
